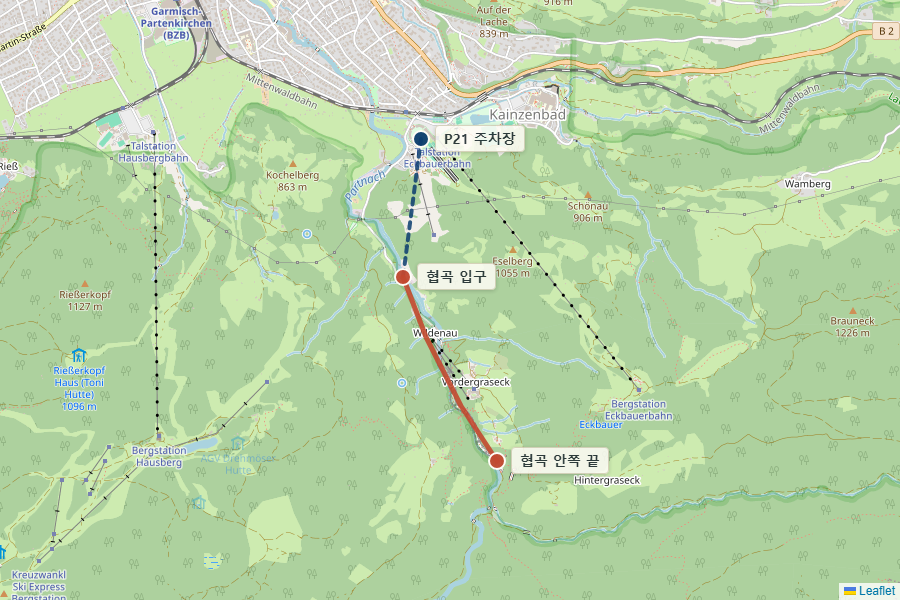
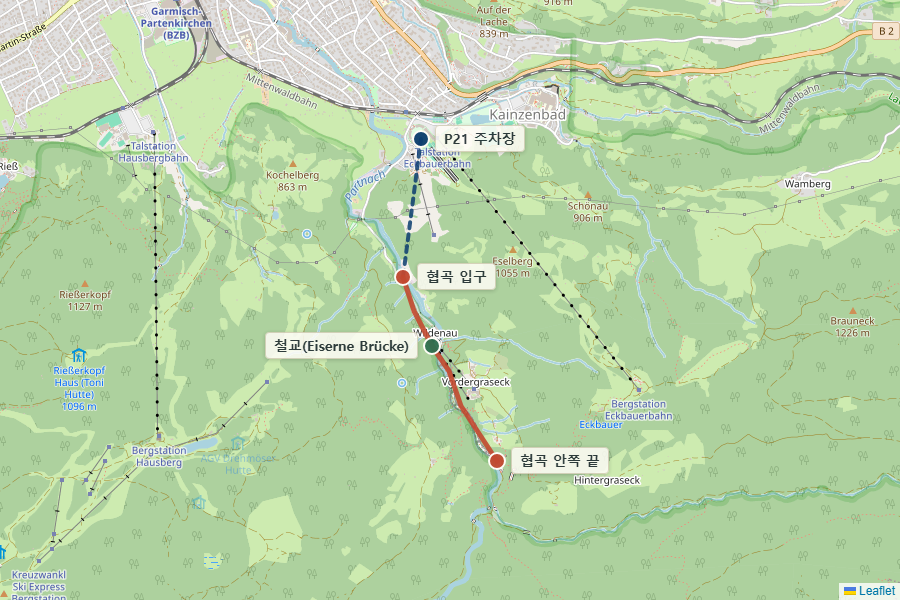
Add Partnachklamm's Iron Bridge landmark and wet-gear guidance
- Marked the Eiserne Brücke (1914, ~70m above the gorge, a well-known
  viewpoint over the river) on the trail map and added it as a step in
  the route list with context.
- Added a dedicated gear-prep note to the photo card: umbrellas aren't
  practical in the narrow tunnel sections, so a hooded rain jacket
  plus waterproof/non-slip shoes is the real recommendation — the
  gorge is wet year-round from spray and runoff, not just occasional
  puddles, and some sections require ducking for anyone over ~175cm.

Changed region(s): [[0.28, 0.48, 0.4978, 0.63], [0.4978, 0.63, 0.5289, 0.66]]

diff --git a/germany-roadtrip-planner.html b/germany-roadtrip-planner.html
@@ -2333,7 +2333,8 @@ document.addEventListener('DOMContentLoaded', function(){
         <p class="landmark-desc">파르트나흐 강이 깎아낸 길이 약 700m, 최대 높이 80m의 협곡. 암벽에 뚫은 터널·갤러리 형태의 산책로가 협곡 벽을 따라 이어져 물살을 눈높이에서 봅니다.</p>
         <div class="landmark-meta">6–9월 08:00–20:00 (매표 마감 30분 전, 계절별 단축 운영) · <span class="landmark-price">성인 €10 · 6~17세 €5</span> · <a href="https://www.partnachklamm.de" target="_blank" rel="noopener">홈페이지</a> · <a href="https://www.google.com/maps/search/?api=1&query=Partnachklamm" target="_blank" rel="noopener">지도</a></div>
         <div class="landmark-parking">🅿 P21 Olympia-Skistadion 주차 유료(1일권 €5) · 입구까지 도보 25~30분</div>
-        <div style="font-size:0.8rem;color:var(--ink-soft);margin-top:0.3rem;">🥾 <b>트레일 코스</b> — P21 주차장에서 협곡 입구까지 도보 25~30분(평지, 도보 외엔 성수기 한정 마차가 유일한 대안). 입구부터는 강을 따라 뚫린 터널·갤러리 산책로를 따라 협곡 안쪽(약 700m, 최대 높이 80m 구간)까지 들어갔다가 같은 길로 되돌아 나오는 왕복 코스이며, 여유 있게 걸으면 왕복 약 1~1.5시간. 포장·난간이 잘 갖춰져 있어 기술적으로 어렵지 않지만, 터널 구간은 물이 튀고 축축할 수 있어 방수·미끄럼방지 신발 권장. 겨울엔 협곡 안 고드름·얼음 폭포로도 유명하지만 이번 방문(9월)엔 해당 없음.</div>
+        <div style="font-size:0.8rem;color:var(--ink-soft);margin-top:0.3rem;">🥾 <b>트레일 코스</b> — P21 주차장에서 협곡 입구까지 도보 25~30분(평지, 도보 외엔 성수기 한정 마차가 유일한 대안). 입구부터는 강을 따라 뚫린 터널·갤러리 산책로를 따라 협곡 안쪽(약 700m, 최대 높이 80m 구간)까지 들어갔다가 같은 길로 되돌아 나오는 왕복 코스이며, 여유 있게 걸으면 왕복 약 1~1.5시간. 포장·난간이 잘 갖춰져 있어 기술적으로 어렵지 않습니다. 겨울엔 협곡 안 고드름·얼음 폭포로도 유명하지만 이번 방문(9월)엔 해당 없음.</div>
+        <div style="font-size:0.8rem;color:var(--ink-soft);margin-top:0.3rem;">☔ <b>준비물</b> — 폭포 물보라·바위 틈 낙수로 사철 축축해 여름에도 안쪽은 서늘합니다. 터널 통로가 좁아 <b>우산은 펴기 어려워 실질적으로 못 씀</b> — 후드 달린 방수 재킷이 더 실용적입니다. 신발은 방수·미끄럼방지가 필수(젖은 바위·물기 있는 통로가 계속 이어짐). 일부 구간은 천장이 낮아 키 175cm 이상이면 숙이고 지나야 하는 곳도 있습니다.</div>
         <div style="font-size:0.8rem;color:var(--warn);margin-top:0.3rem;">⚠ <b>공사 구간 안내</b> — 협곡 자체(입구~내부 산책로)는 정상 개방이지만, 협곡을 지나 라이늘탈(Reintal) 방향·Vordergraseck으로 이어지는 연장 트레일은 공식 홈페이지 기준 2026-09-21~11-20 공사로 폐쇄 예정입니다(방문일 9/22 포함). 오늘 일정처럼 협곡 구간만 왕복할 계획이면 영향 없지만, 그 너머까지 더 걷고 싶었다면 이번엔 어렵습니다 — 방문 직전 공식 홈페이지에서 최신 상태 재확인 권장.</div>
         </div>
       </div>
@@ -2344,6 +2345,7 @@ document.addEventListener('DOMContentLoaded', function(){
         <ol class="route-steps">
         <li><span class="rs-name">P21 주차장</span></li>
         <li><span class="rs-name">협곡 입구</span><span class="rs-seg">도보 25~30분</span></li>
+        <li><span class="rs-name">철교(Eiserne Brücke)</span><span class="rs-seg">협곡 진행 중 통과 — 1914년 건립, 협곡 위 약 70m 높이를 가로지르는 철제 다리로 아래 급류를 내려다볼 수 있는 대표 뷰포인트</span></li>
         <li><span class="rs-name">협곡 안쪽 끝</span><span class="rs-seg">왕복 약 1~1.5시간</span></li>
         <li><span class="rs-name">협곡 입구(같은 길로 복귀)</span></li>
         <li><span class="rs-name">P21 주차장</span><span class="rs-seg">도보 25~30분</span></li>

diff --git a/index.html b/index.html
@@ -2333,7 +2333,8 @@ document.addEventListener('DOMContentLoaded', function(){
         <p class="landmark-desc">파르트나흐 강이 깎아낸 길이 약 700m, 최대 높이 80m의 협곡. 암벽에 뚫은 터널·갤러리 형태의 산책로가 협곡 벽을 따라 이어져 물살을 눈높이에서 봅니다.</p>
         <div class="landmark-meta">6–9월 08:00–20:00 (매표 마감 30분 전, 계절별 단축 운영) · <span class="landmark-price">성인 €10 · 6~17세 €5</span> · <a href="https://www.partnachklamm.de" target="_blank" rel="noopener">홈페이지</a> · <a href="https://www.google.com/maps/search/?api=1&query=Partnachklamm" target="_blank" rel="noopener">지도</a></div>
         <div class="landmark-parking">🅿 P21 Olympia-Skistadion 주차 유료(1일권 €5) · 입구까지 도보 25~30분</div>
-        <div style="font-size:0.8rem;color:var(--ink-soft);margin-top:0.3rem;">🥾 <b>트레일 코스</b> — P21 주차장에서 협곡 입구까지 도보 25~30분(평지, 도보 외엔 성수기 한정 마차가 유일한 대안). 입구부터는 강을 따라 뚫린 터널·갤러리 산책로를 따라 협곡 안쪽(약 700m, 최대 높이 80m 구간)까지 들어갔다가 같은 길로 되돌아 나오는 왕복 코스이며, 여유 있게 걸으면 왕복 약 1~1.5시간. 포장·난간이 잘 갖춰져 있어 기술적으로 어렵지 않지만, 터널 구간은 물이 튀고 축축할 수 있어 방수·미끄럼방지 신발 권장. 겨울엔 협곡 안 고드름·얼음 폭포로도 유명하지만 이번 방문(9월)엔 해당 없음.</div>
+        <div style="font-size:0.8rem;color:var(--ink-soft);margin-top:0.3rem;">🥾 <b>트레일 코스</b> — P21 주차장에서 협곡 입구까지 도보 25~30분(평지, 도보 외엔 성수기 한정 마차가 유일한 대안). 입구부터는 강을 따라 뚫린 터널·갤러리 산책로를 따라 협곡 안쪽(약 700m, 최대 높이 80m 구간)까지 들어갔다가 같은 길로 되돌아 나오는 왕복 코스이며, 여유 있게 걸으면 왕복 약 1~1.5시간. 포장·난간이 잘 갖춰져 있어 기술적으로 어렵지 않습니다. 겨울엔 협곡 안 고드름·얼음 폭포로도 유명하지만 이번 방문(9월)엔 해당 없음.</div>
+        <div style="font-size:0.8rem;color:var(--ink-soft);margin-top:0.3rem;">☔ <b>준비물</b> — 폭포 물보라·바위 틈 낙수로 사철 축축해 여름에도 안쪽은 서늘합니다. 터널 통로가 좁아 <b>우산은 펴기 어려워 실질적으로 못 씀</b> — 후드 달린 방수 재킷이 더 실용적입니다. 신발은 방수·미끄럼방지가 필수(젖은 바위·물기 있는 통로가 계속 이어짐). 일부 구간은 천장이 낮아 키 175cm 이상이면 숙이고 지나야 하는 곳도 있습니다.</div>
         <div style="font-size:0.8rem;color:var(--warn);margin-top:0.3rem;">⚠ <b>공사 구간 안내</b> — 협곡 자체(입구~내부 산책로)는 정상 개방이지만, 협곡을 지나 라이늘탈(Reintal) 방향·Vordergraseck으로 이어지는 연장 트레일은 공식 홈페이지 기준 2026-09-21~11-20 공사로 폐쇄 예정입니다(방문일 9/22 포함). 오늘 일정처럼 협곡 구간만 왕복할 계획이면 영향 없지만, 그 너머까지 더 걷고 싶었다면 이번엔 어렵습니다 — 방문 직전 공식 홈페이지에서 최신 상태 재확인 권장.</div>
         </div>
       </div>
@@ -2344,6 +2345,7 @@ document.addEventListener('DOMContentLoaded', function(){
         <ol class="route-steps">
         <li><span class="rs-name">P21 주차장</span></li>
         <li><span class="rs-name">협곡 입구</span><span class="rs-seg">도보 25~30분</span></li>
+        <li><span class="rs-name">철교(Eiserne Brücke)</span><span class="rs-seg">협곡 진행 중 통과 — 1914년 건립, 협곡 위 약 70m 높이를 가로지르는 철제 다리로 아래 급류를 내려다볼 수 있는 대표 뷰포인트</span></li>
         <li><span class="rs-name">협곡 안쪽 끝</span><span class="rs-seg">왕복 약 1~1.5시간</span></li>
         <li><span class="rs-name">협곡 입구(같은 길로 복귀)</span></li>
         <li><span class="rs-name">P21 주차장</span><span class="rs-seg">도보 25~30분</span></li>
